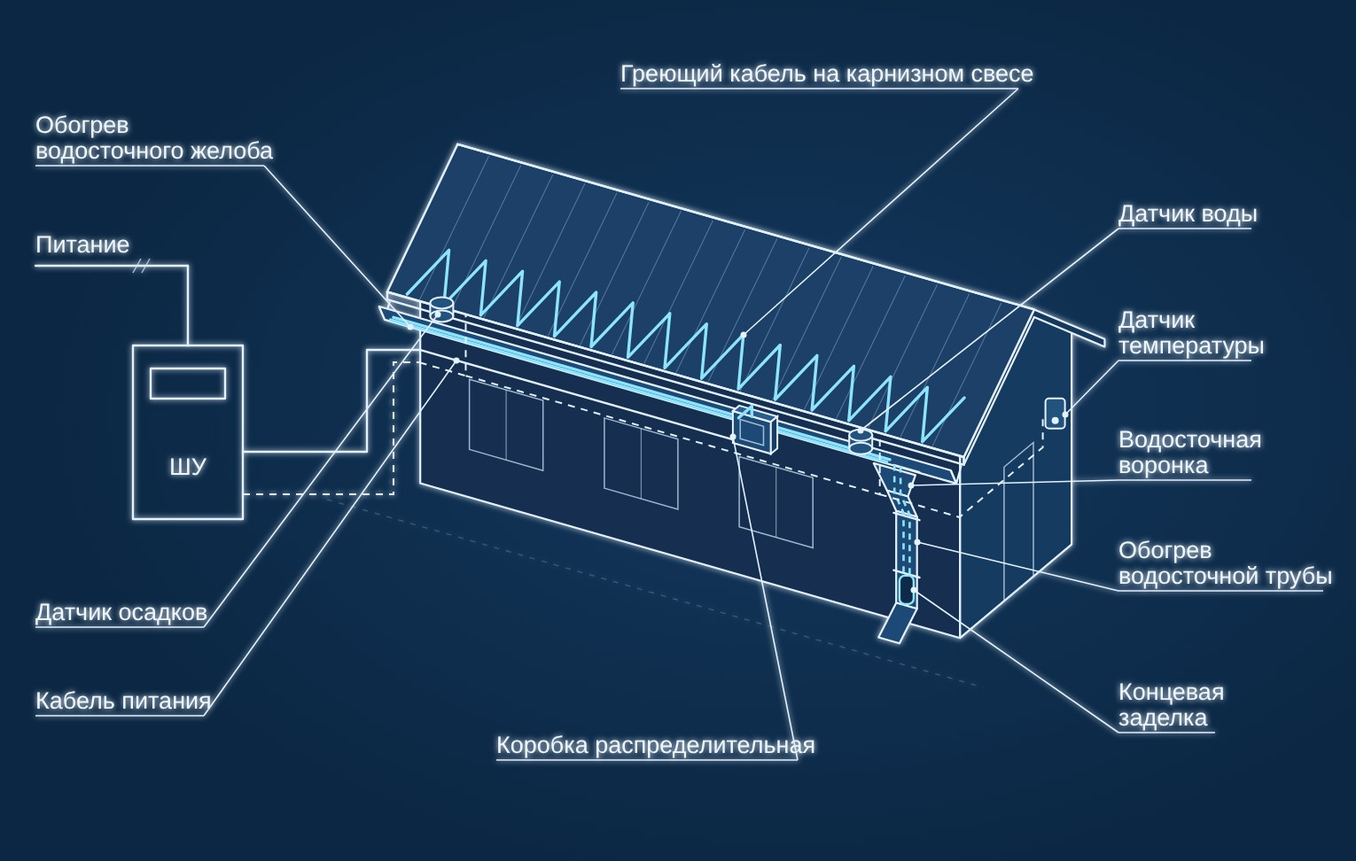
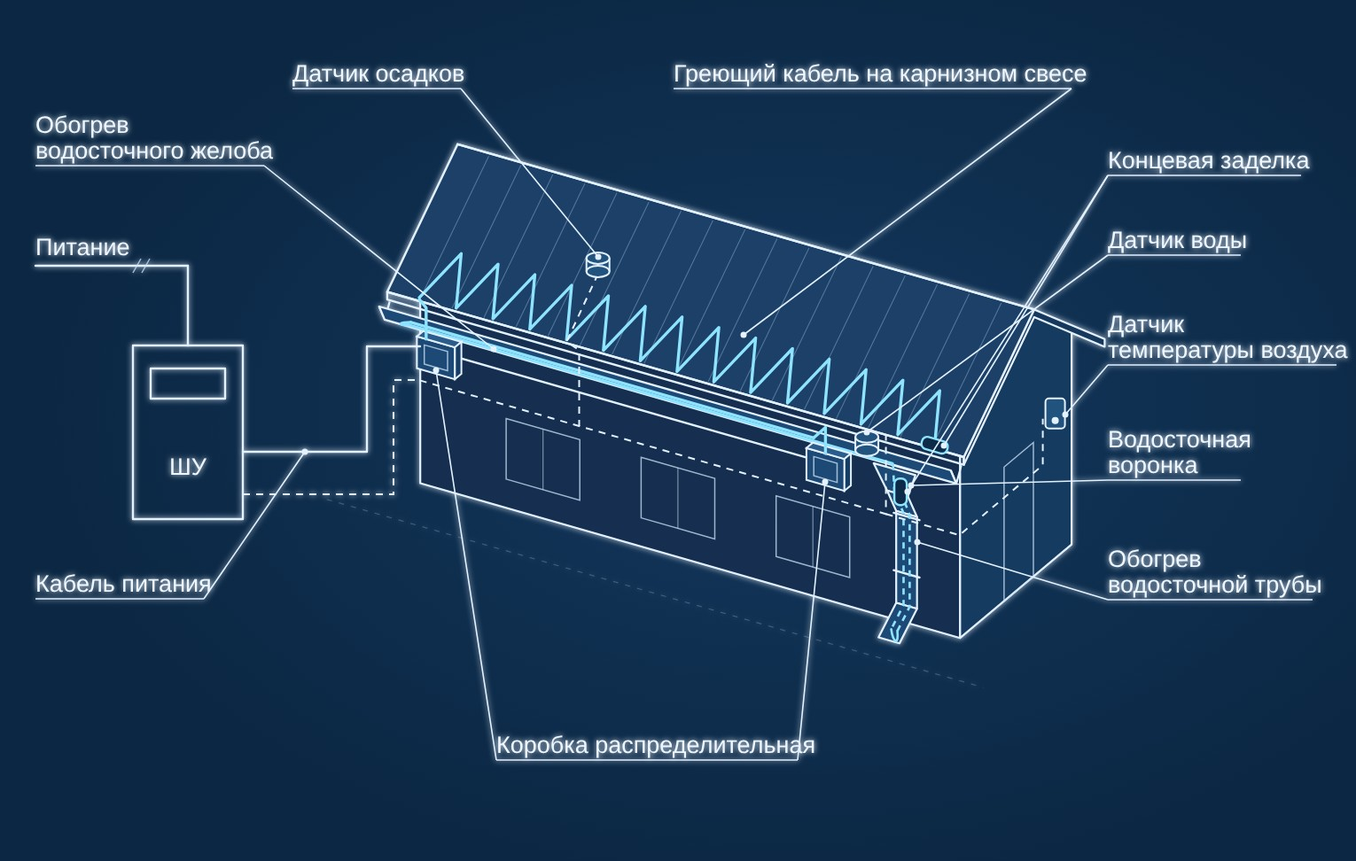
Логотипы заказчиков, уточнённая схема антиобледенения
- «Нам доверяют»: логотипы присланных компаний (ЛУКОЙЛ и Апатит пока названием)
- Схема антиобледенения: две секции с коробками, петля кабеля в желобе и трубе, датчик осадков на открытой кровле, датчик воды у воронки, датчик температуры воздуха в тени
- Рабочий диапазон −10…+5 °C, ссылка на СП 17.13330 и ПУЭ

Claude-Session: https://claude.ai/code/session_01XFjEYGNak1RMMKJ6gRRzxk

diff --git a/zavod-ets-o-kompanii.html b/zavod-ets-o-kompanii.html
@@ -749,14 +749,13 @@ h2{font-size:clamp(28px,3.1vw,44px);line-height:1.12}
 .cli-h h2{font-size:clamp(28px,3vw,44px)}
 .cli-h p{font-size:16.5px;line-height:1.55;color:var(--body);max-width:56ch}
 .cli{list-style:none;margin:0;padding:0;display:grid;grid-template-columns:repeat(6,minmax(0,1fr));gap:12px}
-.cli li{display:flex;flex-direction:column;justify-content:center;align-items:center;text-align:center;gap:4px;min-height:92px;padding:14px 10px;border-radius:var(--r);background:var(--bg);border:1px solid var(--line);transition:border-color .2s,background-color .2s,transform .2s}
-.cli li:hover{border-color:var(--sky);background:var(--skyl);transform:translateY(-2px)}
+.cli li{display:flex;flex-direction:column;justify-content:center;align-items:center;text-align:center;min-height:96px;padding:14px 12px;border-radius:var(--r);background:var(--surface);border:1px solid var(--line);transition:border-color .2s,box-shadow .2s,transform .2s}
+.cli li:hover{border-color:var(--sky);box-shadow:0 10px 26px rgba(15,31,53,.08);transform:translateY(-2px)}
+.cli img{display:block;width:var(--w);max-width:100%;height:auto}
 .cli b{font-size:clamp(16px,1.35vw,20px);font-weight:800;color:var(--navy);letter-spacing:.01em;line-height:1.2}
-.cli span{font-size:13px;font-weight:600;color:var(--steel);line-height:1.3}
-.dp-sec.alt .cli li{background:var(--bg)}
 @media (max-width:1100px){.cli{grid-template-columns:repeat(4,minmax(0,1fr))}}
 @media (max-width:760px){.cli{grid-template-columns:repeat(3,minmax(0,1fr))}}
-@media (max-width:560px){.cli{grid-template-columns:repeat(2,minmax(0,1fr));gap:8px}.cli li{min-height:54px;padding:8px}.cli b{font-size:15.5px}.cli span{display:none}.cli-h{margin-bottom:16px}.cli-h p{font-size:15px}}
+@media (max-width:560px){.cli{grid-template-columns:repeat(3,minmax(0,1fr));gap:8px}.cli li{min-height:64px;padding:8px}.cli img{width:calc(var(--w) * .72)}.cli b{font-size:14px}.cli-h{margin-bottom:16px}.cli-h p{font-size:15px}}
 .ci i{flex-shrink:0;width:44px;height:44px;border-radius:12px;background:var(--skyl);color:var(--blue);display:flex;align-items:center;justify-content:center}
 .ci small{display:block;font-size:14px;font-weight:700;color:var(--steel);text-transform:uppercase;letter-spacing:.04em}
 .ci a{font-size:20px;font-weight:800;color:var(--ink);text-decoration:none}
@@ -1531,7 +1530,7 @@ a.dtab:hover{color:var(--ink)}a.dtab[aria-current="page"]:hover{color:#fff;backg
 <div><small>Собственное производство</small><b>Без посредников</b><span>Проектируем, производим и монтируем сами: сроки и качество под нашим контролем.</span></div>
 <div><small>Качественные материалы</small><b>ТР ТС 012/2011, до IP66</b><span>Общепромышленное и взрывозащищённое исполнение оборудования.</span></div>
 <div><small>Гарантийные обязательства</small><b>Сервис после запуска</b><span>Гарантийное и сервисное обслуживание системы.</span></div></div></div></section>
-<section class="dp-sec alt"><div class="wrap"><div class="cli-h"><h2 class="dp-h2" style="margin:0">Нам доверяют</h2><p>Среди наших заказчиков — крупнейшие компании нефтегазовой, горнодобывающей, металлургической и химической отраслей.</p></div><ul class="cli" role="list"><li><b>ЛУКОЙЛ</b><span>нефть и газ</span></li><li><b>Газпром</b><span>газ</span></li><li><b>Роснефть</b><span>нефть и газ</span></li><li><b>НОВАТЭК</b><span>газ и СПГ</span></li><li><b>Транснефть</b><span>транспорт нефти</span></li><li><b>Сургутнефтегаз</b><span>нефть и газ</span></li><li><b>Башнефть</b><span>нефть</span></li><li><b>СИБУР</b><span>нефтехимия</span></li><li><b>РУСАЛ</b><span>алюминий</span></li><li><b>Полюс</b><span>золото</span></li><li><b>АЛРОСА</b><span>алмазы</span></li><li><b>Апатит</b><span>минеральные удобрения</span></li></ul></div></section>
+<section class="dp-sec alt"><div class="wrap"><div class="cli-h"><h2 class="dp-h2" style="margin:0">Нам доверяют</h2><p>Среди наших заказчиков — крупнейшие компании нефтегазовой, горнодобывающей, металлургической и химической отраслей.</p></div><ul class="cli" role="list"><li><b>ЛУКОЙЛ</b></li><li class="lg"><img src="foto/logos/gazprom.png" alt="Газпром" width="93" height="46" style="--w:93px" loading="lazy" decoding="async"></li><li class="lg"><img src="foto/logos/rosneft.png" alt="Роснефть" width="85" height="50" style="--w:85px" loading="lazy" decoding="async"></li><li class="lg"><img src="foto/logos/novatek.png" alt="НОВАТЭК" width="63" height="58" style="--w:63px" loading="lazy" decoding="async"></li><li class="lg"><img src="foto/logos/transneft.png" alt="Транснефть" width="150" height="29" style="--w:150px" loading="lazy" decoding="async"></li><li class="lg"><img src="foto/logos/surgutneftegas.png" alt="Сургутнефтегаз" width="88" height="49" style="--w:88px" loading="lazy" decoding="async"></li><li class="lg"><img src="foto/logos/bashneft.png" alt="Башнефть" width="82" height="52" style="--w:82px" loading="lazy" decoding="async"></li><li class="lg"><img src="foto/logos/sibur.png" alt="СИБУР" width="150" height="28" style="--w:150px" loading="lazy" decoding="async"></li><li class="lg"><img src="foto/logos/rusal.png" alt="РУСАЛ" width="96" height="45" style="--w:96px" loading="lazy" decoding="async"></li><li class="lg"><img src="foto/logos/polyus.png" alt="Полюс" width="61" height="58" style="--w:61px" loading="lazy" decoding="async"></li><li class="lg"><img src="foto/logos/alrosa.png" alt="АЛРОСА" width="98" height="44" style="--w:98px" loading="lazy" decoding="async"></li><li><b>Апатит</b></li></ul></div></section>
 <section id="s4" class="dp-sec"><div class="wrap dp-2"><div><h2 class="dp-h2">Сертификаты</h2><p class="dp-p">Оборудование выпускается в общепромышленном и взрывозащищённом исполнении в соответствии с Техническим регламентом ТР ТС 012/2011.</p></div>
 <ul class="dp-cert"><li><b>EAC</b><span>ТР ТС 012/2011, оборудование для взрывоопасных сред</span></li><li><b>Ex</b><span>1Ex e IIC T3…T6 Gb X, взрывозащищённое исполнение</span></li><li><b>IP66</b><span>степень защиты корпусов</span></li><li><b>СРО</b><span>членство в саморегулируемой организации</span></li><li><b>−60 °C</b><span>температура эксплуатации от −60 до +55 °C</span></li></ul></div></section>
 <section id="s5" class="dp-sec alt"><div class="wrap req2"><div><h2 class="dp-h2">Реквизиты</h2><p class="dp-p">Для договоров, счетов и писем. Работаем по всей России и в ближнем зарубежье.</p>

diff --git a/zavod-ets-proektirovanie-antiobledeneniya.html b/zavod-ets-proektirovanie-antiobledeneniya.html
@@ -749,14 +749,13 @@ h2{font-size:clamp(28px,3.1vw,44px);line-height:1.12}
 .cli-h h2{font-size:clamp(28px,3vw,44px)}
 .cli-h p{font-size:16.5px;line-height:1.55;color:var(--body);max-width:56ch}
 .cli{list-style:none;margin:0;padding:0;display:grid;grid-template-columns:repeat(6,minmax(0,1fr));gap:12px}
-.cli li{display:flex;flex-direction:column;justify-content:center;align-items:center;text-align:center;gap:4px;min-height:92px;padding:14px 10px;border-radius:var(--r);background:var(--bg);border:1px solid var(--line);transition:border-color .2s,background-color .2s,transform .2s}
-.cli li:hover{border-color:var(--sky);background:var(--skyl);transform:translateY(-2px)}
+.cli li{display:flex;flex-direction:column;justify-content:center;align-items:center;text-align:center;min-height:96px;padding:14px 12px;border-radius:var(--r);background:var(--surface);border:1px solid var(--line);transition:border-color .2s,box-shadow .2s,transform .2s}
+.cli li:hover{border-color:var(--sky);box-shadow:0 10px 26px rgba(15,31,53,.08);transform:translateY(-2px)}
+.cli img{display:block;width:var(--w);max-width:100%;height:auto}
 .cli b{font-size:clamp(16px,1.35vw,20px);font-weight:800;color:var(--navy);letter-spacing:.01em;line-height:1.2}
-.cli span{font-size:13px;font-weight:600;color:var(--steel);line-height:1.3}
-.dp-sec.alt .cli li{background:var(--bg)}
 @media (max-width:1100px){.cli{grid-template-columns:repeat(4,minmax(0,1fr))}}
 @media (max-width:760px){.cli{grid-template-columns:repeat(3,minmax(0,1fr))}}
-@media (max-width:560px){.cli{grid-template-columns:repeat(2,minmax(0,1fr));gap:8px}.cli li{min-height:54px;padding:8px}.cli b{font-size:15.5px}.cli span{display:none}.cli-h{margin-bottom:16px}.cli-h p{font-size:15px}}
+@media (max-width:560px){.cli{grid-template-columns:repeat(3,minmax(0,1fr));gap:8px}.cli li{min-height:64px;padding:8px}.cli img{width:calc(var(--w) * .72)}.cli b{font-size:14px}.cli-h{margin-bottom:16px}.cli-h p{font-size:15px}}
 .ci i{flex-shrink:0;width:44px;height:44px;border-radius:12px;background:var(--skyl);color:var(--blue);display:flex;align-items:center;justify-content:center}
 .ci small{display:block;font-size:14px;font-weight:700;color:var(--steel);text-transform:uppercase;letter-spacing:.04em}
 .ci a{font-size:20px;font-weight:800;color:var(--ink);text-decoration:none}
@@ -1530,10 +1529,10 @@ a.dtab:hover{color:var(--ink)}a.dtab[aria-current="page"]:hover{color:#fff;backg
 <section id="s3" class="dp-sec"><div class="wrap"><div class="dp-hl"><div><h2 class="dp-h2">Как работает система</h2>
 <p class="dp-p">Греющий кабель укладывают по карнизному свесу, в желобах, воронках и водосточных трубах: по всему пути талой воды до ливневой канализации или незамерзающей зоны.</p>
 <p class="dp-p">Система работает автоматически. Шкаф управления включает обогрев по датчикам температуры, осадков и воды в водостоке только тогда, когда может образоваться лёд. В сильный мороз талой воды нет, и система не расходует электроэнергию впустую.</p></div>
-<div class="dp-facts"><div class="dp-fact"><b>+3…−15 °C</b><span>типовой диапазон работы системы</span></div><div class="dp-fact"><b>Авто</b><span>управление по датчикам температуры, осадков и воды</span></div><div class="dp-fact"><b>ЭТС ШУО</b><span>шкафы управления собственного производства</span></div><div class="dp-fact"><b>Расчёт</b><span>мощность кабеля под климат района и тип кровли</span></div></div></div></div></section>
+<div class="dp-facts"><div class="dp-fact"><b>−10…+5 °C</b><span>рабочий диапазон температур системы</span></div><div class="dp-fact"><b>Авто</b><span>управление по датчикам температуры, осадков и воды</span></div><div class="dp-fact"><b>ЭТС ШУО</b><span>шкафы управления собственного производства</span></div><div class="dp-fact"><b>Расчёт</b><span>мощность кабеля под климат района и тип кровли</span></div></div></div></div></section>
 <section id="s4" class="dp-sec alt"><div class="wrap dp-2"><div><h2 class="dp-h2">Как мы проектируем</h2>
 <p class="dp-p">Проектные решения разрабатываем по техническому заданию Заказчика с учётом конструкции кровли, типа водостока и климата района строительства, в тесном взаимодействии с его техническими службами.</p>
-<p class="dp-p">Результат: комплект рабочей документации, по которому система монтируется, комплектуется и вводится в эксплуатацию.</p></div>
+<p class="dp-p">Решения принимаем в соответствии с СП 17.13330 «Кровли», ПУЭ и рекомендациями по применению противообледенительных устройств на кровлях. Результат: комплект рабочей документации, по которому система монтируется, комплектуется и вводится в эксплуатацию.</p></div>
 <ul class="dp-check"><li>Теплотехнический расчёт и подбор греющего кабеля</li><li>Раскладка кабеля по кровле, желобам и водостокам</li><li>Схемы питания и управления, размещение датчиков</li><li>Подбор оборудования и материалов в соответствии с проектом</li><li>Визуализация проекта</li></ul></div></section>
 <section id="s5" class="dp-sec"><div class="wrap"><h2 class="dp-h2">Задачи, которые решает проектно-конструкторский отдел</h2><div class="dp-tasks">
 <div class="dp-task">Теплотехнические<small>теплопотери, мощность обогрева</small></div><div class="dp-task">Электротехнические<small>питание, защита, управление</small></div>

diff --git a/index.html b/index.html
@@ -749,14 +749,13 @@ h2{font-size:clamp(28px,3.1vw,44px);line-height:1.12}
 .cli-h h2{font-size:clamp(28px,3vw,44px)}
 .cli-h p{font-size:16.5px;line-height:1.55;color:var(--body);max-width:56ch}
 .cli{list-style:none;margin:0;padding:0;display:grid;grid-template-columns:repeat(6,minmax(0,1fr));gap:12px}
-.cli li{display:flex;flex-direction:column;justify-content:center;align-items:center;text-align:center;gap:4px;min-height:92px;padding:14px 10px;border-radius:var(--r);background:var(--bg);border:1px solid var(--line);transition:border-color .2s,background-color .2s,transform .2s}
-.cli li:hover{border-color:var(--sky);background:var(--skyl);transform:translateY(-2px)}
+.cli li{display:flex;flex-direction:column;justify-content:center;align-items:center;text-align:center;min-height:96px;padding:14px 12px;border-radius:var(--r);background:var(--surface);border:1px solid var(--line);transition:border-color .2s,box-shadow .2s,transform .2s}
+.cli li:hover{border-color:var(--sky);box-shadow:0 10px 26px rgba(15,31,53,.08);transform:translateY(-2px)}
+.cli img{display:block;width:var(--w);max-width:100%;height:auto}
 .cli b{font-size:clamp(16px,1.35vw,20px);font-weight:800;color:var(--navy);letter-spacing:.01em;line-height:1.2}
-.cli span{font-size:13px;font-weight:600;color:var(--steel);line-height:1.3}
-.dp-sec.alt .cli li{background:var(--bg)}
 @media (max-width:1100px){.cli{grid-template-columns:repeat(4,minmax(0,1fr))}}
 @media (max-width:760px){.cli{grid-template-columns:repeat(3,minmax(0,1fr))}}
-@media (max-width:560px){.cli{grid-template-columns:repeat(2,minmax(0,1fr));gap:8px}.cli li{min-height:54px;padding:8px}.cli b{font-size:15.5px}.cli span{display:none}.cli-h{margin-bottom:16px}.cli-h p{font-size:15px}}
+@media (max-width:560px){.cli{grid-template-columns:repeat(3,minmax(0,1fr));gap:8px}.cli li{min-height:64px;padding:8px}.cli img{width:calc(var(--w) * .72)}.cli b{font-size:14px}.cli-h{margin-bottom:16px}.cli-h p{font-size:15px}}
 .ci i{flex-shrink:0;width:44px;height:44px;border-radius:12px;background:var(--skyl);color:var(--blue);display:flex;align-items:center;justify-content:center}
 .ci small{display:block;font-size:14px;font-weight:700;color:var(--steel);text-transform:uppercase;letter-spacing:.04em}
 .ci a{font-size:20px;font-weight:800;color:var(--ink);text-decoration:none}
@@ -1233,7 +1232,7 @@ h2{font-size:clamp(28px,3.1vw,44px);line-height:1.12}
 
 <section id="zakazchiki" class="clients sec-tight alt" aria-labelledby="cli-h">
 <div class="wrap"><div class="cli-h"><h2 id="cli-h">Нам доверяют</h2><p>Среди наших заказчиков — крупнейшие компании нефтегазовой, горнодобывающей, металлургической и химической отраслей.</p></div>
-<ul class="cli" role="list"><li><b>ЛУКОЙЛ</b><span>нефть и газ</span></li><li><b>Газпром</b><span>газ</span></li><li><b>Роснефть</b><span>нефть и газ</span></li><li><b>НОВАТЭК</b><span>газ и СПГ</span></li><li><b>Транснефть</b><span>транспорт нефти</span></li><li><b>Сургутнефтегаз</b><span>нефть и газ</span></li><li><b>Башнефть</b><span>нефть</span></li><li><b>СИБУР</b><span>нефтехимия</span></li><li><b>РУСАЛ</b><span>алюминий</span></li><li><b>Полюс</b><span>золото</span></li><li><b>АЛРОСА</b><span>алмазы</span></li><li><b>Апатит</b><span>минеральные удобрения</span></li></ul>
+<ul class="cli" role="list"><li><b>ЛУКОЙЛ</b></li><li class="lg"><img src="foto/logos/gazprom.png" alt="Газпром" width="93" height="46" style="--w:93px" loading="lazy" decoding="async"></li><li class="lg"><img src="foto/logos/rosneft.png" alt="Роснефть" width="85" height="50" style="--w:85px" loading="lazy" decoding="async"></li><li class="lg"><img src="foto/logos/novatek.png" alt="НОВАТЭК" width="63" height="58" style="--w:63px" loading="lazy" decoding="async"></li><li class="lg"><img src="foto/logos/transneft.png" alt="Транснефть" width="150" height="29" style="--w:150px" loading="lazy" decoding="async"></li><li class="lg"><img src="foto/logos/surgutneftegas.png" alt="Сургутнефтегаз" width="88" height="49" style="--w:88px" loading="lazy" decoding="async"></li><li class="lg"><img src="foto/logos/bashneft.png" alt="Башнефть" width="82" height="52" style="--w:82px" loading="lazy" decoding="async"></li><li class="lg"><img src="foto/logos/sibur.png" alt="СИБУР" width="150" height="28" style="--w:150px" loading="lazy" decoding="async"></li><li class="lg"><img src="foto/logos/rusal.png" alt="РУСАЛ" width="96" height="45" style="--w:96px" loading="lazy" decoding="async"></li><li class="lg"><img src="foto/logos/polyus.png" alt="Полюс" width="61" height="58" style="--w:61px" loading="lazy" decoding="async"></li><li class="lg"><img src="foto/logos/alrosa.png" alt="АЛРОСА" width="98" height="44" style="--w:98px" loading="lazy" decoding="async"></li><li><b>Апатит</b></li></ul>
 </div>
 </section>
 

diff --git a/zavod-ets-montazh-elektroobogreva.html b/zavod-ets-montazh-elektroobogreva.html
@@ -749,14 +749,13 @@ h2{font-size:clamp(28px,3.1vw,44px);line-height:1.12}
 .cli-h h2{font-size:clamp(28px,3vw,44px)}
 .cli-h p{font-size:16.5px;line-height:1.55;color:var(--body);max-width:56ch}
 .cli{list-style:none;margin:0;padding:0;display:grid;grid-template-columns:repeat(6,minmax(0,1fr));gap:12px}
-.cli li{display:flex;flex-direction:column;justify-content:center;align-items:center;text-align:center;gap:4px;min-height:92px;padding:14px 10px;border-radius:var(--r);background:var(--bg);border:1px solid var(--line);transition:border-color .2s,background-color .2s,transform .2s}
-.cli li:hover{border-color:var(--sky);background:var(--skyl);transform:translateY(-2px)}
+.cli li{display:flex;flex-direction:column;justify-content:center;align-items:center;text-align:center;min-height:96px;padding:14px 12px;border-radius:var(--r);background:var(--surface);border:1px solid var(--line);transition:border-color .2s,box-shadow .2s,transform .2s}
+.cli li:hover{border-color:var(--sky);box-shadow:0 10px 26px rgba(15,31,53,.08);transform:translateY(-2px)}
+.cli img{display:block;width:var(--w);max-width:100%;height:auto}
 .cli b{font-size:clamp(16px,1.35vw,20px);font-weight:800;color:var(--navy);letter-spacing:.01em;line-height:1.2}
-.cli span{font-size:13px;font-weight:600;color:var(--steel);line-height:1.3}
-.dp-sec.alt .cli li{background:var(--bg)}
 @media (max-width:1100px){.cli{grid-template-columns:repeat(4,minmax(0,1fr))}}
 @media (max-width:760px){.cli{grid-template-columns:repeat(3,minmax(0,1fr))}}
-@media (max-width:560px){.cli{grid-template-columns:repeat(2,minmax(0,1fr));gap:8px}.cli li{min-height:54px;padding:8px}.cli b{font-size:15.5px}.cli span{display:none}.cli-h{margin-bottom:16px}.cli-h p{font-size:15px}}
+@media (max-width:560px){.cli{grid-template-columns:repeat(3,minmax(0,1fr));gap:8px}.cli li{min-height:64px;padding:8px}.cli img{width:calc(var(--w) * .72)}.cli b{font-size:14px}.cli-h{margin-bottom:16px}.cli-h p{font-size:15px}}
 .ci i{flex-shrink:0;width:44px;height:44px;border-radius:12px;background:var(--skyl);color:var(--blue);display:flex;align-items:center;justify-content:center}
 .ci small{display:block;font-size:14px;font-weight:700;color:var(--steel);text-transform:uppercase;letter-spacing:.04em}
 .ci a{font-size:20px;font-weight:800;color:var(--ink);text-decoration:none}

diff --git a/zavod-ets-montazh-teploizolyacii.html b/zavod-ets-montazh-teploizolyacii.html
@@ -749,14 +749,13 @@ h2{font-size:clamp(28px,3.1vw,44px);line-height:1.12}
 .cli-h h2{font-size:clamp(28px,3vw,44px)}
 .cli-h p{font-size:16.5px;line-height:1.55;color:var(--body);max-width:56ch}
 .cli{list-style:none;margin:0;padding:0;display:grid;grid-template-columns:repeat(6,minmax(0,1fr));gap:12px}
-.cli li{display:flex;flex-direction:column;justify-content:center;align-items:center;text-align:center;gap:4px;min-height:92px;padding:14px 10px;border-radius:var(--r);background:var(--bg);border:1px solid var(--line);transition:border-color .2s,background-color .2s,transform .2s}
-.cli li:hover{border-color:var(--sky);background:var(--skyl);transform:translateY(-2px)}
+.cli li{display:flex;flex-direction:column;justify-content:center;align-items:center;text-align:center;min-height:96px;padding:14px 12px;border-radius:var(--r);background:var(--surface);border:1px solid var(--line);transition:border-color .2s,box-shadow .2s,transform .2s}
+.cli li:hover{border-color:var(--sky);box-shadow:0 10px 26px rgba(15,31,53,.08);transform:translateY(-2px)}
+.cli img{display:block;width:var(--w);max-width:100%;height:auto}
 .cli b{font-size:clamp(16px,1.35vw,20px);font-weight:800;color:var(--navy);letter-spacing:.01em;line-height:1.2}
-.cli span{font-size:13px;font-weight:600;color:var(--steel);line-height:1.3}
-.dp-sec.alt .cli li{background:var(--bg)}
 @media (max-width:1100px){.cli{grid-template-columns:repeat(4,minmax(0,1fr))}}
 @media (max-width:760px){.cli{grid-template-columns:repeat(3,minmax(0,1fr))}}
-@media (max-width:560px){.cli{grid-template-columns:repeat(2,minmax(0,1fr));gap:8px}.cli li{min-height:54px;padding:8px}.cli b{font-size:15.5px}.cli span{display:none}.cli-h{margin-bottom:16px}.cli-h p{font-size:15px}}
+@media (max-width:560px){.cli{grid-template-columns:repeat(3,minmax(0,1fr));gap:8px}.cli li{min-height:64px;padding:8px}.cli img{width:calc(var(--w) * .72)}.cli b{font-size:14px}.cli-h{margin-bottom:16px}.cli-h p{font-size:15px}}
 .ci i{flex-shrink:0;width:44px;height:44px;border-radius:12px;background:var(--skyl);color:var(--blue);display:flex;align-items:center;justify-content:center}
 .ci small{display:block;font-size:14px;font-weight:700;color:var(--steel);text-transform:uppercase;letter-spacing:.04em}
 .ci a{font-size:20px;font-weight:800;color:var(--ink);text-decoration:none}

diff --git a/zavod-ets-napravleniya.html b/zavod-ets-napravleniya.html
@@ -749,14 +749,13 @@ h2{font-size:clamp(28px,3.1vw,44px);line-height:1.12}
 .cli-h h2{font-size:clamp(28px,3vw,44px)}
 .cli-h p{font-size:16.5px;line-height:1.55;color:var(--body);max-width:56ch}
 .cli{list-style:none;margin:0;padding:0;display:grid;grid-template-columns:repeat(6,minmax(0,1fr));gap:12px}
-.cli li{display:flex;flex-direction:column;justify-content:center;align-items:center;text-align:center;gap:4px;min-height:92px;padding:14px 10px;border-radius:var(--r);background:var(--bg);border:1px solid var(--line);transition:border-color .2s,background-color .2s,transform .2s}
-.cli li:hover{border-color:var(--sky);background:var(--skyl);transform:translateY(-2px)}
+.cli li{display:flex;flex-direction:column;justify-content:center;align-items:center;text-align:center;min-height:96px;padding:14px 12px;border-radius:var(--r);background:var(--surface);border:1px solid var(--line);transition:border-color .2s,box-shadow .2s,transform .2s}
+.cli li:hover{border-color:var(--sky);box-shadow:0 10px 26px rgba(15,31,53,.08);transform:translateY(-2px)}
+.cli img{display:block;width:var(--w);max-width:100%;height:auto}
 .cli b{font-size:clamp(16px,1.35vw,20px);font-weight:800;color:var(--navy);letter-spacing:.01em;line-height:1.2}
-.cli span{font-size:13px;font-weight:600;color:var(--steel);line-height:1.3}
-.dp-sec.alt .cli li{background:var(--bg)}
 @media (max-width:1100px){.cli{grid-template-columns:repeat(4,minmax(0,1fr))}}
 @media (max-width:760px){.cli{grid-template-columns:repeat(3,minmax(0,1fr))}}
-@media (max-width:560px){.cli{grid-template-columns:repeat(2,minmax(0,1fr));gap:8px}.cli li{min-height:54px;padding:8px}.cli b{font-size:15.5px}.cli span{display:none}.cli-h{margin-bottom:16px}.cli-h p{font-size:15px}}
+@media (max-width:560px){.cli{grid-template-columns:repeat(3,minmax(0,1fr));gap:8px}.cli li{min-height:64px;padding:8px}.cli img{width:calc(var(--w) * .72)}.cli b{font-size:14px}.cli-h{margin-bottom:16px}.cli-h p{font-size:15px}}
 .ci i{flex-shrink:0;width:44px;height:44px;border-radius:12px;background:var(--skyl);color:var(--blue);display:flex;align-items:center;justify-content:center}
 .ci small{display:block;font-size:14px;font-weight:700;color:var(--steel);text-transform:uppercase;letter-spacing:.04em}
 .ci a{font-size:20px;font-weight:800;color:var(--ink);text-decoration:none}

diff --git a/zavod-ets-obekty.html b/zavod-ets-obekty.html
@@ -749,14 +749,13 @@ h2{font-size:clamp(28px,3.1vw,44px);line-height:1.12}
 .cli-h h2{font-size:clamp(28px,3vw,44px)}
 .cli-h p{font-size:16.5px;line-height:1.55;color:var(--body);max-width:56ch}
 .cli{list-style:none;margin:0;padding:0;display:grid;grid-template-columns:repeat(6,minmax(0,1fr));gap:12px}
-.cli li{display:flex;flex-direction:column;justify-content:center;align-items:center;text-align:center;gap:4px;min-height:92px;padding:14px 10px;border-radius:var(--r);background:var(--bg);border:1px solid var(--line);transition:border-color .2s,background-color .2s,transform .2s}
-.cli li:hover{border-color:var(--sky);background:var(--skyl);transform:translateY(-2px)}
+.cli li{display:flex;flex-direction:column;justify-content:center;align-items:center;text-align:center;min-height:96px;padding:14px 12px;border-radius:var(--r);background:var(--surface);border:1px solid var(--line);transition:border-color .2s,box-shadow .2s,transform .2s}
+.cli li:hover{border-color:var(--sky);box-shadow:0 10px 26px rgba(15,31,53,.08);transform:translateY(-2px)}
+.cli img{display:block;width:var(--w);max-width:100%;height:auto}
 .cli b{font-size:clamp(16px,1.35vw,20px);font-weight:800;color:var(--navy);letter-spacing:.01em;line-height:1.2}
-.cli span{font-size:13px;font-weight:600;color:var(--steel);line-height:1.3}
-.dp-sec.alt .cli li{background:var(--bg)}
 @media (max-width:1100px){.cli{grid-template-columns:repeat(4,minmax(0,1fr))}}
 @media (max-width:760px){.cli{grid-template-columns:repeat(3,minmax(0,1fr))}}
-@media (max-width:560px){.cli{grid-template-columns:repeat(2,minmax(0,1fr));gap:8px}.cli li{min-height:54px;padding:8px}.cli b{font-size:15.5px}.cli span{display:none}.cli-h{margin-bottom:16px}.cli-h p{font-size:15px}}
+@media (max-width:560px){.cli{grid-template-columns:repeat(3,minmax(0,1fr));gap:8px}.cli li{min-height:64px;padding:8px}.cli img{width:calc(var(--w) * .72)}.cli b{font-size:14px}.cli-h{margin-bottom:16px}.cli-h p{font-size:15px}}
 .ci i{flex-shrink:0;width:44px;height:44px;border-radius:12px;background:var(--skyl);color:var(--blue);display:flex;align-items:center;justify-content:center}
 .ci small{display:block;font-size:14px;font-weight:700;color:var(--steel);text-transform:uppercase;letter-spacing:.04em}
 .ci a{font-size:20px;font-weight:800;color:var(--ink);text-decoration:none}

diff --git a/zavod-ets-oprosnye-listy.html b/zavod-ets-oprosnye-listy.html
@@ -749,14 +749,13 @@ h2{font-size:clamp(28px,3.1vw,44px);line-height:1.12}
 .cli-h h2{font-size:clamp(28px,3vw,44px)}
 .cli-h p{font-size:16.5px;line-height:1.55;color:var(--body);max-width:56ch}
 .cli{list-style:none;margin:0;padding:0;display:grid;grid-template-columns:repeat(6,minmax(0,1fr));gap:12px}
-.cli li{display:flex;flex-direction:column;justify-content:center;align-items:center;text-align:center;gap:4px;min-height:92px;padding:14px 10px;border-radius:var(--r);background:var(--bg);border:1px solid var(--line);transition:border-color .2s,background-color .2s,transform .2s}
-.cli li:hover{border-color:var(--sky);background:var(--skyl);transform:translateY(-2px)}
+.cli li{display:flex;flex-direction:column;justify-content:center;align-items:center;text-align:center;min-height:96px;padding:14px 12px;border-radius:var(--r);background:var(--surface);border:1px solid var(--line);transition:border-color .2s,box-shadow .2s,transform .2s}
+.cli li:hover{border-color:var(--sky);box-shadow:0 10px 26px rgba(15,31,53,.08);transform:translateY(-2px)}
+.cli img{display:block;width:var(--w);max-width:100%;height:auto}
 .cli b{font-size:clamp(16px,1.35vw,20px);font-weight:800;color:var(--navy);letter-spacing:.01em;line-height:1.2}
-.cli span{font-size:13px;font-weight:600;color:var(--steel);line-height:1.3}
-.dp-sec.alt .cli li{background:var(--bg)}
 @media (max-width:1100px){.cli{grid-template-columns:repeat(4,minmax(0,1fr))}}
 @media (max-width:760px){.cli{grid-template-columns:repeat(3,minmax(0,1fr))}}
-@media (max-width:560px){.cli{grid-template-columns:repeat(2,minmax(0,1fr));gap:8px}.cli li{min-height:54px;padding:8px}.cli b{font-size:15.5px}.cli span{display:none}.cli-h{margin-bottom:16px}.cli-h p{font-size:15px}}
+@media (max-width:560px){.cli{grid-template-columns:repeat(3,minmax(0,1fr));gap:8px}.cli li{min-height:64px;padding:8px}.cli img{width:calc(var(--w) * .72)}.cli b{font-size:14px}.cli-h{margin-bottom:16px}.cli-h p{font-size:15px}}
 .ci i{flex-shrink:0;width:44px;height:44px;border-radius:12px;background:var(--skyl);color:var(--blue);display:flex;align-items:center;justify-content:center}
 .ci small{display:block;font-size:14px;font-weight:700;color:var(--steel);text-transform:uppercase;letter-spacing:.04em}
 .ci a{font-size:20px;font-weight:800;color:var(--ink);text-decoration:none}

diff --git a/zavod-ets-politika-konfidencialnosti.html b/zavod-ets-politika-konfidencialnosti.html
@@ -749,14 +749,13 @@ h2{font-size:clamp(28px,3.1vw,44px);line-height:1.12}
 .cli-h h2{font-size:clamp(28px,3vw,44px)}
 .cli-h p{font-size:16.5px;line-height:1.55;color:var(--body);max-width:56ch}
 .cli{list-style:none;margin:0;padding:0;display:grid;grid-template-columns:repeat(6,minmax(0,1fr));gap:12px}
-.cli li{display:flex;flex-direction:column;justify-content:center;align-items:center;text-align:center;gap:4px;min-height:92px;padding:14px 10px;border-radius:var(--r);background:var(--bg);border:1px solid var(--line);transition:border-color .2s,background-color .2s,transform .2s}
-.cli li:hover{border-color:var(--sky);background:var(--skyl);transform:translateY(-2px)}
+.cli li{display:flex;flex-direction:column;justify-content:center;align-items:center;text-align:center;min-height:96px;padding:14px 12px;border-radius:var(--r);background:var(--surface);border:1px solid var(--line);transition:border-color .2s,box-shadow .2s,transform .2s}
+.cli li:hover{border-color:var(--sky);box-shadow:0 10px 26px rgba(15,31,53,.08);transform:translateY(-2px)}
+.cli img{display:block;width:var(--w);max-width:100%;height:auto}
 .cli b{font-size:clamp(16px,1.35vw,20px);font-weight:800;color:var(--navy);letter-spacing:.01em;line-height:1.2}
-.cli span{font-size:13px;font-weight:600;color:var(--steel);line-height:1.3}
-.dp-sec.alt .cli li{background:var(--bg)}
 @media (max-width:1100px){.cli{grid-template-columns:repeat(4,minmax(0,1fr))}}
 @media (max-width:760px){.cli{grid-template-columns:repeat(3,minmax(0,1fr))}}
-@media (max-width:560px){.cli{grid-template-columns:repeat(2,minmax(0,1fr));gap:8px}.cli li{min-height:54px;padding:8px}.cli b{font-size:15.5px}.cli span{display:none}.cli-h{margin-bottom:16px}.cli-h p{font-size:15px}}
+@media (max-width:560px){.cli{grid-template-columns:repeat(3,minmax(0,1fr));gap:8px}.cli li{min-height:64px;padding:8px}.cli img{width:calc(var(--w) * .72)}.cli b{font-size:14px}.cli-h{margin-bottom:16px}.cli-h p{font-size:15px}}
 .ci i{flex-shrink:0;width:44px;height:44px;border-radius:12px;background:var(--skyl);color:var(--blue);display:flex;align-items:center;justify-content:center}
 .ci small{display:block;font-size:14px;font-weight:700;color:var(--steel);text-transform:uppercase;letter-spacing:.04em}
 .ci a{font-size:20px;font-weight:800;color:var(--ink);text-decoration:none}

diff --git a/zavod-ets-proektirovanie.html b/zavod-ets-proektirovanie.html
@@ -749,14 +749,13 @@ h2{font-size:clamp(28px,3.1vw,44px);line-height:1.12}
 .cli-h h2{font-size:clamp(28px,3vw,44px)}
 .cli-h p{font-size:16.5px;line-height:1.55;color:var(--body);max-width:56ch}
 .cli{list-style:none;margin:0;padding:0;display:grid;grid-template-columns:repeat(6,minmax(0,1fr));gap:12px}
-.cli li{display:flex;flex-direction:column;justify-content:center;align-items:center;text-align:center;gap:4px;min-height:92px;padding:14px 10px;border-radius:var(--r);background:var(--bg);border:1px solid var(--line);transition:border-color .2s,background-color .2s,transform .2s}
-.cli li:hover{border-color:var(--sky);background:var(--skyl);transform:translateY(-2px)}
+.cli li{display:flex;flex-direction:column;justify-content:center;align-items:center;text-align:center;min-height:96px;padding:14px 12px;border-radius:var(--r);background:var(--surface);border:1px solid var(--line);transition:border-color .2s,box-shadow .2s,transform .2s}
+.cli li:hover{border-color:var(--sky);box-shadow:0 10px 26px rgba(15,31,53,.08);transform:translateY(-2px)}
+.cli img{display:block;width:var(--w);max-width:100%;height:auto}
 .cli b{font-size:clamp(16px,1.35vw,20px);font-weight:800;color:var(--navy);letter-spacing:.01em;line-height:1.2}
-.cli span{font-size:13px;font-weight:600;color:var(--steel);line-height:1.3}
-.dp-sec.alt .cli li{background:var(--bg)}
 @media (max-width:1100px){.cli{grid-template-columns:repeat(4,minmax(0,1fr))}}
 @media (max-width:760px){.cli{grid-template-columns:repeat(3,minmax(0,1fr))}}
-@media (max-width:560px){.cli{grid-template-columns:repeat(2,minmax(0,1fr));gap:8px}.cli li{min-height:54px;padding:8px}.cli b{font-size:15.5px}.cli span{display:none}.cli-h{margin-bottom:16px}.cli-h p{font-size:15px}}
+@media (max-width:560px){.cli{grid-template-columns:repeat(3,minmax(0,1fr));gap:8px}.cli li{min-height:64px;padding:8px}.cli img{width:calc(var(--w) * .72)}.cli b{font-size:14px}.cli-h{margin-bottom:16px}.cli-h p{font-size:15px}}
 .ci i{flex-shrink:0;width:44px;height:44px;border-radius:12px;background:var(--skyl);color:var(--blue);display:flex;align-items:center;justify-content:center}
 .ci small{display:block;font-size:14px;font-weight:700;color:var(--steel);text-transform:uppercase;letter-spacing:.04em}
 .ci a{font-size:20px;font-weight:800;color:var(--ink);text-decoration:none}

diff --git a/zavod-ets-proizvodstvo.html b/zavod-ets-proizvodstvo.html
@@ -749,14 +749,13 @@ h2{font-size:clamp(28px,3.1vw,44px);line-height:1.12}
 .cli-h h2{font-size:clamp(28px,3vw,44px)}
 .cli-h p{font-size:16.5px;line-height:1.55;color:var(--body);max-width:56ch}
 .cli{list-style:none;margin:0;padding:0;display:grid;grid-template-columns:repeat(6,minmax(0,1fr));gap:12px}
-.cli li{display:flex;flex-direction:column;justify-content:center;align-items:center;text-align:center;gap:4px;min-height:92px;padding:14px 10px;border-radius:var(--r);background:var(--bg);border:1px solid var(--line);transition:border-color .2s,background-color .2s,transform .2s}
-.cli li:hover{border-color:var(--sky);background:var(--skyl);transform:translateY(-2px)}
+.cli li{display:flex;flex-direction:column;justify-content:center;align-items:center;text-align:center;min-height:96px;padding:14px 12px;border-radius:var(--r);background:var(--surface);border:1px solid var(--line);transition:border-color .2s,box-shadow .2s,transform .2s}
+.cli li:hover{border-color:var(--sky);box-shadow:0 10px 26px rgba(15,31,53,.08);transform:translateY(-2px)}
+.cli img{display:block;width:var(--w);max-width:100%;height:auto}
 .cli b{font-size:clamp(16px,1.35vw,20px);font-weight:800;color:var(--navy);letter-spacing:.01em;line-height:1.2}
-.cli span{font-size:13px;font-weight:600;color:var(--steel);line-height:1.3}
-.dp-sec.alt .cli li{background:var(--bg)}
 @media (max-width:1100px){.cli{grid-template-columns:repeat(4,minmax(0,1fr))}}
 @media (max-width:760px){.cli{grid-template-columns:repeat(3,minmax(0,1fr))}}
-@media (max-width:560px){.cli{grid-template-columns:repeat(2,minmax(0,1fr));gap:8px}.cli li{min-height:54px;padding:8px}.cli b{font-size:15.5px}.cli span{display:none}.cli-h{margin-bottom:16px}.cli-h p{font-size:15px}}
+@media (max-width:560px){.cli{grid-template-columns:repeat(3,minmax(0,1fr));gap:8px}.cli li{min-height:64px;padding:8px}.cli img{width:calc(var(--w) * .72)}.cli b{font-size:14px}.cli-h{margin-bottom:16px}.cli-h p{font-size:15px}}
 .ci i{flex-shrink:0;width:44px;height:44px;border-radius:12px;background:var(--skyl);color:var(--blue);display:flex;align-items:center;justify-content:center}
 .ci small{display:block;font-size:14px;font-weight:700;color:var(--steel);text-transform:uppercase;letter-spacing:.04em}
 .ci a{font-size:20px;font-weight:800;color:var(--ink);text-decoration:none}

diff --git a/zavod-ets-soglasie.html b/zavod-ets-soglasie.html
@@ -749,14 +749,13 @@ h2{font-size:clamp(28px,3.1vw,44px);line-height:1.12}
 .cli-h h2{font-size:clamp(28px,3vw,44px)}
 .cli-h p{font-size:16.5px;line-height:1.55;color:var(--body);max-width:56ch}
 .cli{list-style:none;margin:0;padding:0;display:grid;grid-template-columns:repeat(6,minmax(0,1fr));gap:12px}
-.cli li{display:flex;flex-direction:column;justify-content:center;align-items:center;text-align:center;gap:4px;min-height:92px;padding:14px 10px;border-radius:var(--r);background:var(--bg);border:1px solid var(--line);transition:border-color .2s,background-color .2s,transform .2s}
-.cli li:hover{border-color:var(--sky);background:var(--skyl);transform:translateY(-2px)}
+.cli li{display:flex;flex-direction:column;justify-content:center;align-items:center;text-align:center;min-height:96px;padding:14px 12px;border-radius:var(--r);background:var(--surface);border:1px solid var(--line);transition:border-color .2s,box-shadow .2s,transform .2s}
+.cli li:hover{border-color:var(--sky);box-shadow:0 10px 26px rgba(15,31,53,.08);transform:translateY(-2px)}
+.cli img{display:block;width:var(--w);max-width:100%;height:auto}
 .cli b{font-size:clamp(16px,1.35vw,20px);font-weight:800;color:var(--navy);letter-spacing:.01em;line-height:1.2}
-.cli span{font-size:13px;font-weight:600;color:var(--steel);line-height:1.3}
-.dp-sec.alt .cli li{background:var(--bg)}
 @media (max-width:1100px){.cli{grid-template-columns:repeat(4,minmax(0,1fr))}}
 @media (max-width:760px){.cli{grid-template-columns:repeat(3,minmax(0,1fr))}}
-@media (max-width:560px){.cli{grid-template-columns:repeat(2,minmax(0,1fr));gap:8px}.cli li{min-height:54px;padding:8px}.cli b{font-size:15.5px}.cli span{display:none}.cli-h{margin-bottom:16px}.cli-h p{font-size:15px}}
+@media (max-width:560px){.cli{grid-template-columns:repeat(3,minmax(0,1fr));gap:8px}.cli li{min-height:64px;padding:8px}.cli img{width:calc(var(--w) * .72)}.cli b{font-size:14px}.cli-h{margin-bottom:16px}.cli-h p{font-size:15px}}
 .ci i{flex-shrink:0;width:44px;height:44px;border-radius:12px;background:var(--skyl);color:var(--blue);display:flex;align-items:center;justify-content:center}
 .ci small{display:block;font-size:14px;font-weight:700;color:var(--steel);text-transform:uppercase;letter-spacing:.04em}
 .ci a{font-size:20px;font-weight:800;color:var(--ink);text-decoration:none}
